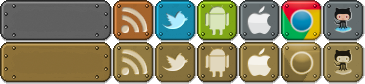
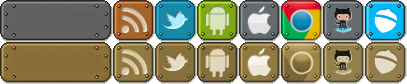
pokki button

diff --git a/media/css/all.css b/media/css/all.css
@@ -1,1 +1,157 @@
-body,p,h1,h2,h3,ul,blockquote{margin:0}ul{padding:0;list-style:none}.clear-float{overflow:hidden}.border-box{-webkit-box-sizing:border-box;-moz-box-sizing:border-box;box-sizing:border-box}.button{display:inline-block;width:113px;height:42px;background-image:url(/media/images/chrome/buttons.png);font-family:Arial;font-size:16px;line-height:42px;text-align:center;text-shadow:1px 1px 0 #1d1715;color:#eee}.button:hover{background-position:0 -42px;text-decoration:none}.download-podcast{background-image:url(/media/images/chrome/giant_button.png);color:#f1f1f2!important;font-size:20px;line-height:42px;text-align:center;text-decoration:none!important;display:block;width:500px;height:42px}.download-podcast:hover{background-position:0 -42px}.bullet-list{list-style-image:url(/media/images/chrome/bullet_sword.png);margin:0 40px}.bullet-list li{margin-bottom:10px}.bullet-list li:last-child{margin-bottom:0}.text-format{line-height:24px;text-align:justify}.text-format h1,.text-format h2,.text-format h3,.text-format h4,.text-format h5,.text-format h6{margin:20px 0;font-family:Prociono;font-size:24px;font-weight:normal}.text-format p{margin:20px 0}.text-format p:first-child{margin-top:0}.text-format p img{float:left;margin-right:10px}.text-format ul{list-style-image:url(/media/images/chrome/bullet_sword.png);margin:0 40px}.text-format ul li{margin-bottom:10px}.text-format ul li:last-child{margin-bottom:0}.text-format ul{margin-top:20px;margin-bottom:20px}.text-format blockquote{color:#584640;border-left:10px solid rgba(0,0,0,0.25);margin:0 20px 0 10px;padding-left:10px}.text-format .before{float:left;margin-right:20px}.text-format .after{float:right;margin-left:20px}.text-format .full-frame{text-align:center}.text-format .full-frame em{font-style:italic;font-weight:bold}.subtext{text-align:center}.ad{text-align:center;margin:10px 0}@font-face{font-family:Prociono;font-style:normal;font-weight:400;src:local('Prociono'),local('Prociono-Regular'),url(/media/fonts/prociono.woff) format('woff')}html,body{background:#000;color:#f1f1f2;font-family:Arial;font-size:16px}.standard-page{width:800px;margin:0 auto}.standard-page>.body{overflow:hidden;margin-bottom:20px}.standard-page>.body>.main{float:left;width:580px;color:#1d1715}.standard-page>.body>.main a{color:#0b521f;text-decoration:underline}.standard-page>.body>.main a:hover{color:#117f30;text-decoration:underline}.standard-page>.body>.main>.hd,.standard-page>.body>.main>.ft{height:70px;background-image:url(/media/images/chrome/scroll.png)}.standard-page>.body>.main>.ft{background-position:0 -70px}.standard-page>.body>.main>.bd{padding:0 40px 1px;background:url(/media/images/chrome/scroll_repeat.png)}.standard-page>.body>.aux{-webkit-box-sizing:border-box;-moz-box-sizing:border-box;box-sizing:border-box;float:left;width:220px;padding:20px}.standard-page>.foot{margin-bottom:20px;height:42px;line-height:42px;text-align:center;text-shadow:1px 1px 0 #1d1715;background:url(/media/images/chrome/footer.png)}.highlight{margin:1em 0;border:solid 1px #000;background:rgba(250,250,250,0.5)}.highlight pre{margin:0;display:block;overflow:auto;padding:10px;-webkit-tab-size:4;-moz-tab-size:4;-o-tab-size:4;tab-size:4}.highlight .c{color:#998;font-style:italic}.highlight .err{color:#a61717;background-color:#e3d2d2}.highlight .k{font-weight:bold}.highlight .o{font-weight:bold}.highlight .cm{color:#998;font-style:italic}.highlight .cp{color:#999;font-weight:bold}.highlight .c1{color:#998;font-style:italic}.highlight .cs{color:#999;font-weight:bold;font-style:italic}.highlight .gd{color:#000;background-color:#fdd}.highlight .gd .x{color:#000;background-color:#faa}.highlight .ge{font-style:italic}.highlight .gr{color:#a00}.highlight .gh{color:#999}.highlight .gi{color:#000;background-color:#dfd}.highlight .gi .x{color:#000;background-color:#afa}.highlight .go{color:#888}.highlight .gp{color:#555}.highlight .gs{font-weight:bold}.highlight .gu{color:#aaa}.highlight .gt{color:#a00}.highlight .kc{font-weight:bold}.highlight .kd{font-weight:bold}.highlight .kp{font-weight:bold}.highlight .kr{font-weight:bold}.highlight .kt{color:#458;font-weight:bold}.highlight .m{color:#099}.highlight .s{color:#d14}.highlight .na{color:#008080}.highlight .nb{color:#0086b3}.highlight .nc{color:#458;font-weight:bold}.highlight .no{color:#008080}.highlight .ni{color:#800080}.highlight .ne{color:#900;font-weight:bold}.highlight .nf{color:#900;font-weight:bold}.highlight .nn{color:#555}.highlight .nt{color:#000080}.highlight .nv{color:#008080}.highlight .ow{font-weight:bold}.highlight .w{color:#bbb}.highlight .mf{color:#099}.highlight .mh{color:#099}.highlight .mi{color:#099}.highlight .mo{color:#099}.highlight .sb{color:#d14}.highlight .sc{color:#d14}.highlight .sd{color:#d14}.highlight .s2{color:#d14}.highlight .se{color:#d14}.highlight .sh{color:#d14}.highlight .si{color:#d14}.highlight .sx{color:#d14}.highlight .sr{color:#009926}.highlight .s1{color:#d14}.highlight .ss{color:#990073}.highlight .bp{color:#999}.highlight .vc{color:#008080}.highlight .vg{color:#008080}.highlight .vi{color:#008080}.highlight .il{color:#099}.page h1.title{display:inline-block;margin:10px 0 20px;font-family:Prociono;font-size:32px;font-weight:normal}.page .content{line-height:24px;text-align:justify}.page .content h1,.page .content h2,.page .content h3,.page .content h4,.page .content h5,.page .content h6{margin:20px 0;font-family:Prociono;font-size:24px;font-weight:normal}.page .content p{margin:20px 0}.page .content p:first-child{margin-top:0}.page .content p img{float:left;margin-right:10px}.page .content ul{list-style-image:url(/media/images/chrome/bullet_sword.png);margin:0 40px}.page .content ul li{margin-bottom:10px}.page .content ul li:last-child{margin-bottom:0}.page .content ul{margin-top:20px;margin-bottom:20px}.page .content blockquote{color:#584640;border-left:10px solid rgba(0,0,0,0.25);margin:0 20px 0 10px;padding-left:10px}.page .content .before{float:left;margin-right:20px}.page .content .after{float:right;margin-left:20px}.page .content .full-frame{text-align:center}.page .content .full-frame em{font-style:italic;font-weight:bold}.page-head{position:relative}.page-head a{text-decoration:none}.page-head h1{font-family:Prociono;font-size:48px;position:absolute;left:300px;top:20px;display:inline;width:492px;height:59px}.page-head .title{color:#fff;text-shadow:2px 2px 2px #666}.page-head em{color:#939598;text-align:center;position:absolute;left:300px;top:80px;width:420px}.page-head nav{-webkit-box-sizing:border-box;-moz-box-sizing:border-box;box-sizing:border-box;height:64px;margin-bottom:20px;padding:12px;background-image:url(/media/images/chrome/navigation_bar.png)}.page-head nav a{display:inline-block;width:113px;height:42px;background-image:url(/media/images/chrome/buttons.png);font-family:Arial;font-size:16px;line-height:42px;text-align:center;text-shadow:1px 1px 0 #1d1715;color:#eee;margin-right:10px}.page-head nav a:hover{background-position:0 -42px;text-decoration:none}.page-head nav .site{float:left}.page-head nav .social{float:right}.page-head nav .social a{width:42px;height:42px;text-indent:-999em}.page-head nav .social a.twitter{background-position:-155px 0}.page-head nav .social a.twitter:hover{background-position:-155px -42px}.page-head nav .social a.rss{background-position:-113px 0}.page-head nav .social a.rss:hover{background-position:-113px -42px}.page-head nav .social a:last-child{margin-right:0}.post h1.title{display:inline-block;margin:10px 0 20px;font-family:Prociono;font-size:32px;font-weight:normal}.post aside{padding:10px;border:1px solid rgba(0,0,0,0.5);border-radius:5px;background:rgba(0,0,0,0.25)}.post .meta{margin-bottom:20px}.post .meta .avatar{border:solid 2px #1d1715;float:left;margin-right:10px}.post .meta .author{line-height:22px;display:block}.post .meta .date{line-height:22px;display:block;color:#4f3f38;font-size:75%}.post .meta a{background-image:url(/media/images/chrome/buttons.png);float:right;text-indent:-999em;display:block;margin-left:10px;width:42px;height:42px}.post .meta a.github{background-position:-323px 0}.post .meta a.github:hover{background-position:-323px -42px}.post .meta a.twitter{background-position:-155px 0}.post .meta a.twitter:hover{background-position:-155px -42px}.post .content{line-height:24px;text-align:justify}.post .content h1,.post .content h2,.post .content h3,.post .content h4,.post .content h5,.post .content h6{margin:20px 0;font-family:Prociono;font-size:24px;font-weight:normal}.post .content p{margin:20px 0}.post .content p:first-child{margin-top:0}.post .content p img{float:left;margin-right:10px}.post .content ul{list-style-image:url(/media/images/chrome/bullet_sword.png);margin:0 40px}.post .content ul li{margin-bottom:10px}.post .content ul li:last-child{margin-bottom:0}.post .content ul{margin-top:20px;margin-bottom:20px}.post .content blockquote{color:#584640;border-left:10px solid rgba(0,0,0,0.25);margin:0 20px 0 10px;padding-left:10px}.post .content .before{float:left;margin-right:20px}.post .content .after{float:right;margin-left:20px}.post .content .full-frame{text-align:center}.post .content .full-frame em{font-style:italic;font-weight:bold}.post .comments{border:dotted 2px #000;border-style:dotted none;margin-bottom:20px;padding-bottom:5px}.post .comments h2{float:left;margin-top:5px;font-family:Prociono}.post .comments #dsq-content #dsq-global-toolbar{margin-top:0}.post-list{text-align:left}.post-list>header>.title{display:inline-block;margin:20px 0;font-family:Prociono;font-size:32px;font-weight:normal}.post-list .posts{margin-bottom:20px}.post-list .posts li{margin-bottom:20px}.post-list .posts li:last-child{margin-bottom:0}.post-list .posts .title{display:inline-block;font-size:24px}.post-list .posts .meta{display:block;color:#4f3f38;font-size:12px;padding-top:3px}.post-list .posts .meta .comments{display:inline-block;margin-left:5px;padding-left:7px;border-left:solid 1px #666}.post-list .pagination{border-top:dotted 1px #000;padding:20px 0;font-size:18px}.post-list .pagination .prev{float:left}.post-list .pagination .next{float:right}.share .title{font-weight:bold;display:block;margin-bottom:10px;text-shadow:1px 1px 1px #ccc}.share ul{list-style:none;padding:0;margin:0}.share ul li{display:inline-block;margin-right:20px;vertical-align:top}.share ul .facebook{margin-right:15px}.authors hr{border:1px solid #1d1715;margin:20px 0}.authors .author .avatar{border:solid 2px #000}.authors .author:nth-child(odd) .avatar{float:left;margin-right:20px}.authors .author:nth-child(even) .avatar{float:right;margin-left:20px}ul.bullets{list-style-image:url(/media/images/chrome/bullet_sword.png);margin:0 40px}ul.bullets li{margin-bottom:10px}ul.bullets li:last-child{margin-bottom:0}#welcome{display:inline-block;text-align:justify;background:rgba(0,0,0,0.1);border-radius:5px;padding:10px;margin-top:10px}#welcome img{float:left;margin:0 10px 5px 0}a{color:#f68b1f;text-decoration:underline}a:hover{text-decoration:none}.onslaught{margin-bottom:2em}.lostcast img{margin-bottom:10px}.onslaught,.lostcast{text-align:center}.onslaught p,.lostcast p{color:#f1f1f2;margin-bottom:1em}.onslaught p a,.lostcast p a{background-image:url(/media/images/chrome/buttons.png);color:#eee;font-size:16px;text-align:center;text-decoration:none;text-shadow:1px 1px 0 #1d1715;display:inline-block;line-height:42px;width:113px;height:42px}.onslaught p a:hover,.lostcast p a:hover{background-position:0 -42px;text-decoration:none}.onslaught ul,.lostcast ul{margin:0 0 10px 18px;height:42px}.onslaught ul li,.lostcast ul li{display:inline}.onslaught ul li a,.lostcast ul li a{background-image:url(/media/images/chrome/buttons.png);float:left;text-indent:-999em;display:block;margin-right:10px;width:42px;height:42px}.onslaught ul li:last-child a,.lostcast ul li:last-child a{margin:0}.onslaught .android,.lostcast .android{background-position:-197px 0}.onslaught .android:hover,.lostcast .android:hover{background-position:-197px -42px}.onslaught .apple,.lostcast .apple{background-position:-239px 0}.onslaught .apple:hover,.lostcast .apple:hover{background-position:-239px -42px}.onslaught .chrome,.lostcast .chrome{background-position:-281px 0}.onslaught .chrome:hover,.lostcast .chrome:hover{background-position:-281px -42px}.lostcast p a.rss{background-position:-113px 0;text-indent:-999em;width:42px;height:42px}.lostcast p a.rss:hover{background-position:-113px -42px}
+body,p,h1,h2,h3,ul,blockquote{margin:0;}
+ul{padding:0;list-style:none;}
+.clear-float{overflow:hidden;}
+.border-box{-webkit-box-sizing:border-box;-moz-box-sizing:border-box;box-sizing:border-box;}
+.button{display:inline-block;width:113px;height:42px;background-image:url(/media/images/chrome/buttons.png);font-family:Arial;font-size:16px;line-height:42px;text-align:center;text-shadow:1px 1px 0 #1d1715;color:#eee;}.button:hover{background-position:0 -42px;text-decoration:none;}
+.download-podcast{background-image:url(/media/images/chrome/giant_button.png);color:#f1f1f2 !important;font-size:20px;line-height:42px;text-align:center;text-decoration:none !important;display:block;width:500px;height:42px;}.download-podcast:hover{background-position:0 -42px;}
+.bullet-list{list-style-image:url(/media/images/chrome/bullet_sword.png);margin:0 40px;}.bullet-list li{margin-bottom:10px;}.bullet-list li:last-child{margin-bottom:0;}
+.text-format{line-height:24px;text-align:justify;}.text-format h1,.text-format h2,.text-format h3,.text-format h4,.text-format h5,.text-format h6{margin:20px 0;font-family:Prociono;font-size:24px;font-weight:normal;}
+.text-format p{margin:20px 0;}.text-format p:first-child{margin-top:0;}
+.text-format p img{float:left;margin-right:10px;}
+.text-format ul{list-style-image:url(/media/images/chrome/bullet_sword.png);margin:0 40px;}.text-format ul li{margin-bottom:10px;}.text-format ul li:last-child{margin-bottom:0;}
+.text-format ul{margin-top:20px;margin-bottom:20px;}
+.text-format blockquote{color:#584640;border-left:10px solid rgba(0, 0, 0, 0.25);margin:0 20px 0 10px;padding-left:10px;}
+.text-format .before{float:left;margin-right:20px;}
+.text-format .after{float:right;margin-left:20px;}
+.text-format .full-frame{text-align:center;}.text-format .full-frame em{font-style:italic;font-weight:bold;}
+.subtext{text-align:center;}
+.ad{text-align:center;margin:10px 0;}
+@font-face{font-family:Prociono;font-style:normal;font-weight:400;src:local('Prociono'),local('Prociono-Regular'),url(/media/fonts/prociono.woff) format('woff');}html,body{background:#000;color:#f1f1f2;font-family:Arial;font-size:16px;}
+.standard-page{width:800px;margin:0 auto;}.standard-page>.body{overflow:hidden;margin-bottom:20px;}.standard-page>.body>.main{float:left;width:580px;color:#1d1715;}.standard-page>.body>.main a{color:#0b521f;text-decoration:underline;}.standard-page>.body>.main a:hover{color:#117f30;text-decoration:underline;}
+.standard-page>.body>.main>.hd,.standard-page>.body>.main>.ft{height:70px;background-image:url(/media/images/chrome/scroll.png);}
+.standard-page>.body>.main>.ft{background-position:0 -70px;}
+.standard-page>.body>.main>.bd{padding:0 40px 1px;background:url(/media/images/chrome/scroll_repeat.png);}
+.standard-page>.body>.aux{-webkit-box-sizing:border-box;-moz-box-sizing:border-box;box-sizing:border-box;float:left;width:220px;padding:20px;}
+.standard-page>.foot{margin-bottom:20px;height:42px;line-height:42px;text-align:center;text-shadow:1px 1px 0 #1d1715;background:url(/media/images/chrome/footer.png);}
+.highlight{margin:1em 0;border:solid 1px #000;background:rgba(250, 250, 250, 0.5);}.highlight pre{margin:0;display:block;overflow:auto;padding:10px;-webkit-tab-size:4;-moz-tab-size:4;-o-tab-size:4;tab-size:4;}
+.highlight .c{color:#999988;font-style:italic;}
+.highlight .err{color:#a61717;background-color:#e3d2d2;}
+.highlight .k{font-weight:bold;}
+.highlight .o{font-weight:bold;}
+.highlight .cm{color:#999988;font-style:italic;}
+.highlight .cp{color:#999999;font-weight:bold;}
+.highlight .c1{color:#999988;font-style:italic;}
+.highlight .cs{color:#999999;font-weight:bold;font-style:italic;}
+.highlight .gd{color:#000000;background-color:#ffdddd;}
+.highlight .gd .x{color:#000000;background-color:#ffaaaa;}
+.highlight .ge{font-style:italic;}
+.highlight .gr{color:#aa0000;}
+.highlight .gh{color:#999999;}
+.highlight .gi{color:#000000;background-color:#ddffdd;}
+.highlight .gi .x{color:#000000;background-color:#aaffaa;}
+.highlight .go{color:#888888;}
+.highlight .gp{color:#555555;}
+.highlight .gs{font-weight:bold;}
+.highlight .gu{color:#aaaaaa;}
+.highlight .gt{color:#aa0000;}
+.highlight .kc{font-weight:bold;}
+.highlight .kd{font-weight:bold;}
+.highlight .kp{font-weight:bold;}
+.highlight .kr{font-weight:bold;}
+.highlight .kt{color:#445588;font-weight:bold;}
+.highlight .m{color:#009999;}
+.highlight .s{color:#dd1144;}
+.highlight .na{color:#008080;}
+.highlight .nb{color:#0086b3;}
+.highlight .nc{color:#445588;font-weight:bold;}
+.highlight .no{color:#008080;}
+.highlight .ni{color:#800080;}
+.highlight .ne{color:#990000;font-weight:bold;}
+.highlight .nf{color:#990000;font-weight:bold;}
+.highlight .nn{color:#555555;}
+.highlight .nt{color:#000080;}
+.highlight .nv{color:#008080;}
+.highlight .ow{font-weight:bold;}
+.highlight .w{color:#bbbbbb;}
+.highlight .mf{color:#009999;}
+.highlight .mh{color:#009999;}
+.highlight .mi{color:#009999;}
+.highlight .mo{color:#009999;}
+.highlight .sb{color:#dd1144;}
+.highlight .sc{color:#dd1144;}
+.highlight .sd{color:#dd1144;}
+.highlight .s2{color:#dd1144;}
+.highlight .se{color:#dd1144;}
+.highlight .sh{color:#dd1144;}
+.highlight .si{color:#dd1144;}
+.highlight .sx{color:#dd1144;}
+.highlight .sr{color:#009926;}
+.highlight .s1{color:#dd1144;}
+.highlight .ss{color:#990073;}
+.highlight .bp{color:#999999;}
+.highlight .vc{color:#008080;}
+.highlight .vg{color:#008080;}
+.highlight .vi{color:#008080;}
+.highlight .il{color:#009999;}
+.page h1.title{display:inline-block;margin:10px 0 20px;font-family:Prociono;font-size:32px;font-weight:normal;}
+.page .content{line-height:24px;text-align:justify;}.page .content h1,.page .content h2,.page .content h3,.page .content h4,.page .content h5,.page .content h6{margin:20px 0;font-family:Prociono;font-size:24px;font-weight:normal;}
+.page .content p{margin:20px 0;}.page .content p:first-child{margin-top:0;}
+.page .content p img{float:left;margin-right:10px;}
+.page .content ul{list-style-image:url(/media/images/chrome/bullet_sword.png);margin:0 40px;}.page .content ul li{margin-bottom:10px;}.page .content ul li:last-child{margin-bottom:0;}
+.page .content ul{margin-top:20px;margin-bottom:20px;}
+.page .content blockquote{color:#584640;border-left:10px solid rgba(0, 0, 0, 0.25);margin:0 20px 0 10px;padding-left:10px;}
+.page .content .before{float:left;margin-right:20px;}
+.page .content .after{float:right;margin-left:20px;}
+.page .content .full-frame{text-align:center;}.page .content .full-frame em{font-style:italic;font-weight:bold;}
+.page-head{position:relative;}.page-head a{text-decoration:none;}
+.page-head h1{font-family:Prociono;font-size:48px;position:absolute;left:300px;top:20px;display:inline;width:492px;height:59px;}
+.page-head .title{color:#fff;text-shadow:2px 2px 2px #666;}
+.page-head em{color:#939598;text-align:center;position:absolute;left:300px;top:80px;width:420px;}
+.page-head nav{-webkit-box-sizing:border-box;-moz-box-sizing:border-box;box-sizing:border-box;height:64px;margin-bottom:20px;padding:12px;background-image:url(/media/images/chrome/navigation_bar.png);}.page-head nav a{display:inline-block;width:113px;height:42px;background-image:url(/media/images/chrome/buttons.png);font-family:Arial;font-size:16px;line-height:42px;text-align:center;text-shadow:1px 1px 0 #1d1715;color:#eee;margin-right:10px;}.page-head nav a:hover{background-position:0 -42px;text-decoration:none;}
+.page-head nav .site{float:left;}
+.page-head nav .social{float:right;}.page-head nav .social a{width:42px;height:42px;text-indent:-999em;}.page-head nav .social a.twitter{background-position:-155px 0;}.page-head nav .social a.twitter:hover{background-position:-155px -42px;}
+.page-head nav .social a.rss{background-position:-113px 0;}.page-head nav .social a.rss:hover{background-position:-113px -42px;}
+.page-head nav .social a:last-child{margin-right:0;}
+.post h1.title{display:inline-block;margin:10px 0 20px;font-family:Prociono;font-size:32px;font-weight:normal;}
+.post aside{padding:10px;border:1px solid rgba(0, 0, 0, 0.5);border-radius:5px;background:rgba(0, 0, 0, 0.25);}
+.post .meta{margin-bottom:20px;}.post .meta .avatar{border:solid 2px #1d1715;float:left;margin-right:10px;}
+.post .meta .author{line-height:22px;display:block;}
+.post .meta .date{line-height:22px;display:block;color:#4f3f38;font-size:75%;}
+.post .meta a{background-image:url(/media/images/chrome/buttons.png);float:right;text-indent:-999em;display:block;margin-left:10px;width:42px;height:42px;}.post .meta a.github{background-position:-323px 0;}
+.post .meta a.github:hover{background-position:-323px -42px;}
+.post .meta a.twitter{background-position:-155px 0;}
+.post .meta a.twitter:hover{background-position:-155px -42px;}
+.post .content{line-height:24px;text-align:justify;}.post .content h1,.post .content h2,.post .content h3,.post .content h4,.post .content h5,.post .content h6{margin:20px 0;font-family:Prociono;font-size:24px;font-weight:normal;}
+.post .content p{margin:20px 0;}.post .content p:first-child{margin-top:0;}
+.post .content p img{float:left;margin-right:10px;}
+.post .content ul{list-style-image:url(/media/images/chrome/bullet_sword.png);margin:0 40px;}.post .content ul li{margin-bottom:10px;}.post .content ul li:last-child{margin-bottom:0;}
+.post .content ul{margin-top:20px;margin-bottom:20px;}
+.post .content blockquote{color:#584640;border-left:10px solid rgba(0, 0, 0, 0.25);margin:0 20px 0 10px;padding-left:10px;}
+.post .content .before{float:left;margin-right:20px;}
+.post .content .after{float:right;margin-left:20px;}
+.post .content .full-frame{text-align:center;}.post .content .full-frame em{font-style:italic;font-weight:bold;}
+.post .comments{border:dotted 2px #000;border-style:dotted none;margin-bottom:20px;padding-bottom:5px;}.post .comments h2{float:left;margin-top:5px;font-family:Prociono;}
+.post .comments #dsq-content #dsq-global-toolbar{margin-top:0;}
+.post-list{text-align:left;}.post-list>header>.title{display:inline-block;margin:20px 0;font-family:Prociono;font-size:32px;font-weight:normal;}
+.post-list .posts{margin-bottom:20px;}.post-list .posts li{margin-bottom:20px;}.post-list .posts li:last-child{margin-bottom:0;}
+.post-list .posts .title{display:inline-block;font-size:24px;}
+.post-list .posts .meta{display:block;color:#4f3f38;font-size:12px;padding-top:3px;}.post-list .posts .meta .comments{display:inline-block;margin-left:5px;padding-left:7px;border-left:solid 1px #666;}
+.post-list .pagination{border-top:dotted 1px #000;padding:20px 0;font-size:18px;}.post-list .pagination .prev{float:left;}
+.post-list .pagination .next{float:right;}
+.share .title{font-weight:bold;display:block;margin-bottom:10px;text-shadow:1px 1px 1px #ccc;}
+.share ul{list-style:none;padding:0;margin:0;}.share ul li{display:inline-block;margin-right:20px;vertical-align:top;}
+.share ul .facebook{margin-right:15px;}
+.authors hr{border:1px solid #1d1715;margin:20px 0;}
+.authors .author .avatar{border:solid 2px #000;}
+.authors .author:nth-child(odd) .avatar{float:left;margin-right:20px;}
+.authors .author:nth-child(even) .avatar{float:right;margin-left:20px;}
+ul.bullets{list-style-image:url(/media/images/chrome/bullet_sword.png);margin:0 40px;}ul.bullets li{margin-bottom:10px;}ul.bullets li:last-child{margin-bottom:0;}
+#welcome{display:inline-block;text-align:justify;background:rgba(0, 0, 0, 0.1);border-radius:5px;padding:10px;margin-top:10px;}#welcome img{float:left;margin:0 10px 5px 0;}
+a{color:#f68b1f;text-decoration:underline;}
+a:hover{text-decoration:none;}
+.onslaught{margin-bottom:2em;}
+.lostcast img{margin-bottom:10px;}
+.onslaught,.lostcast{text-align:center;}.onslaught p,.lostcast p{color:#f1f1f2;margin-bottom:1em;}.onslaught p a,.lostcast p a{background-image:url(/media/images/chrome/buttons.png);color:#eee;font-size:16px;text-align:center;text-decoration:none;text-shadow:1px 1px 0 #1d1715;display:inline-block;line-height:42px;width:113px;height:42px;}
+.onslaught p a:hover,.lostcast p a:hover{background-position:0 -42px;text-decoration:none;}
+.onslaught ul,.lostcast ul{margin:0 0 10px 18px;height:42px;}
+.onslaught ul li,.lostcast ul li{display:inline;}.onslaught ul li a,.lostcast ul li a{background-image:url(/media/images/chrome/buttons.png);float:left;text-indent:-999em;display:block;margin-right:10px;width:42px;height:42px;}
+.onslaught ul li:last-child a,.lostcast ul li:last-child a{margin:0;}
+.onslaught .android,.lostcast .android{background-position:-197px 0;}
+.onslaught .android:hover,.lostcast .android:hover{background-position:-197px -42px;}
+.onslaught .apple,.lostcast .apple{background-position:-239px 0;}
+.onslaught .apple:hover,.lostcast .apple:hover{background-position:-239px -42px;}
+.onslaught .chrome,.lostcast .chrome{background-position:-281px 0;}
+.onslaught .chrome:hover,.lostcast .chrome:hover{background-position:-281px -42px;}
+.onslaught .pokki,.lostcast .pokki{background-position:-365px 0;}
+.onslaught .pokki:hover,.lostcast .pokki:hover{background-position:-365px -42px;}
+.lostcast p a.rss{background-position:-113px 0;text-indent:-999em;width:42px;height:42px;}.lostcast p a.rss:hover{background-position:-113px -42px;}

diff --git a/_includes/html/sidebar.html b/_includes/html/sidebar.html
@@ -9,16 +9,13 @@
 	</a>
 	<ul>
 		<li>
-			<a
-				class="android"
-				href="https://market.android.com/details?id=com.gameclosure.tealeaf"
-			>Onslaught! for Android tablets</a>
-		</li>
-		<li>
 			<a class="apple" href="http://itunes.apple.com/us/app/onslaught!/id441426241">Onslaught! for iPad</a>
 		</li>
 		<li>
 			<a class="chrome" href="https://chrome.google.com/webstore/detail/khodnfbkbanejphecblcofbghjdgfaih">Onslaught! Arena for Chrome</a>
+		</li>
+		<li>
+			<a class="pokki" href="">Onslaught! Arena on Pokki</a>
 		</li>
 	</ul>
 	<p>

diff --git a/_less/ldg.less b/_less/ldg.less
@@ -103,6 +103,12 @@ a:hover {
 	.chrome:hover {
 		background-position: -281px -42px;
 	}
+	.pokki {
+		background-position: -365px 0;
+	}
+	.pokki:hover {
+		background-position: -365px -42px;
+	}
 
 }
 
